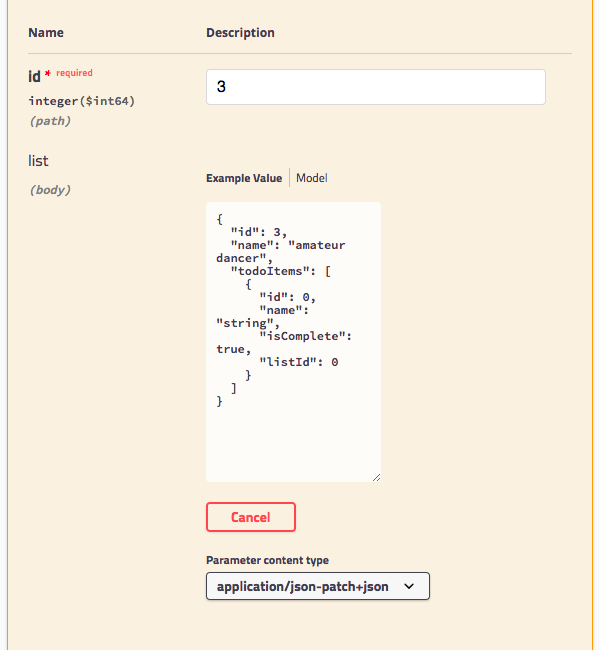
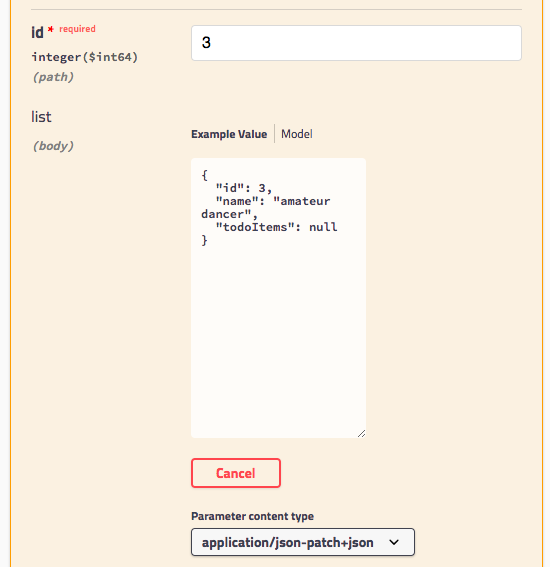
fix readme and update database

diff --git a/README.md b/README.md
@@ -105,14 +105,16 @@ new list is there:
 
 where id is the id of a list
 
-Click "Try It Out":
-
-![Update A Brand](/assets/updateBrand.png)
-
 Let's update the we created earlier.  Becoming a dancing queen is work, let's aim 
-to be an amateur dancer instead, so type in "amateur dancer".
-We can tell which ID it is from the POST request made in the previous
-section, so type in the ID:
+to be an amateur dancer instead, type the following in:
+
+```
+{
+  "id": 3,
+  "name": "amateur dancer",
+  "todoItems": null
+}
+```
 
 ![Update a list](/assets/updateList.png)
 
